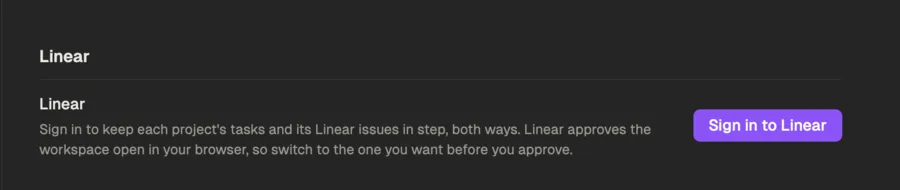
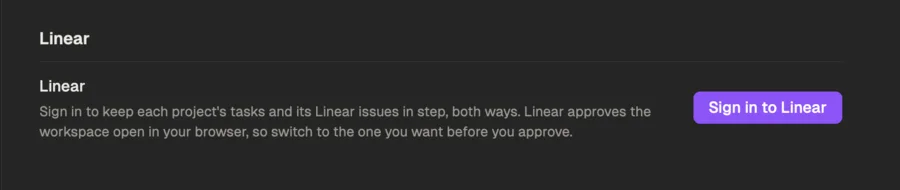
feat(site): Retake every screenshot and show the Hub
Every app shot is retaken from the current app, the hero and the Graph
included, and the hub page shows the Hub's list and a mod's code preview.

diff --git a/apps/site/src/data/shots.ts b/apps/site/src/data/shots.ts
@@ -17,8 +17,8 @@ export const shots = {
   hero: {
     file: 'overseer',
     width: 1600,
-    height: 980,
-    alt: 'Dispatch with its sidebar of Overseer, Issues, Needs you, My week, Timeline, Graph, Threads, Landing, Docs and Runs. Coming in shows two questions from agents, each with answer buttons and Reply. In the middle, the Overseer asks what to work on next, and Going out lists two runs still working.',
+    height: 997,
+    alt: 'Dispatch with its sidebar and the Overseer in the middle: you asked it to add offline mode, it planned a milestone and sent an agent, and it flags a tool approval. Coming in lists that approval with Approve, Approve session and Deny; Going out lists two agents still working.',
   },
   // A finished run: its log, the reviewer's note, the diff and Merge.
   run: {
@@ -69,8 +69,8 @@ export const shots = {
   graph: {
     file: 'graph',
     width: 1600,
-    height: 980,
-    alt: 'Graph at the Projects level: a card for each project with its landed count and progress, a line where one waits on another, and a side panel with the longest open chain and what is ready to start.',
+    height: 997,
+    alt: 'Graph at the Projects level: a card for each project with its landed count and progress, beside the longest open chain and the tasks ready to start.',
   },
   // The Projects menu at the top of the sidebar.
   picker: {
@@ -85,6 +85,20 @@ export const shots = {
     width: 1600,
     height: 338,
     alt: 'The Linear section of Settings: a line about two-way sync and choosing the workspace in your browser, and a Sign in to Linear button.',
+  },
+  // The Hub panel in the app, listing mods from dispatch.foo/hub.
+  hub: {
+    file: 'hub',
+    width: 1600,
+    height: 997,
+    alt: 'The Hub in Dispatch: panels, themes and layouts other people made, each with its kind, a one-line summary, its author and a Preview button.',
+  },
+  // A mod's preview before it installs: where it comes from and its code.
+  hubPreview: {
+    file: 'hub-preview',
+    width: 1600,
+    height: 997,
+    alt: 'The Hub previewing the Today panel: where it comes from and the commit it is pinned to, a warning to read the code first, Install Today, View on GitHub, and the panel’s main.js in full.',
   },
 } satisfies Record<string, Shot>;
 
